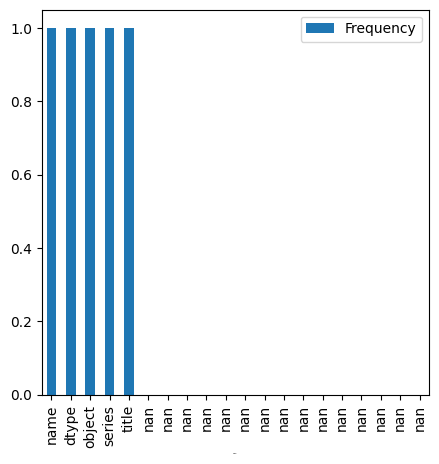
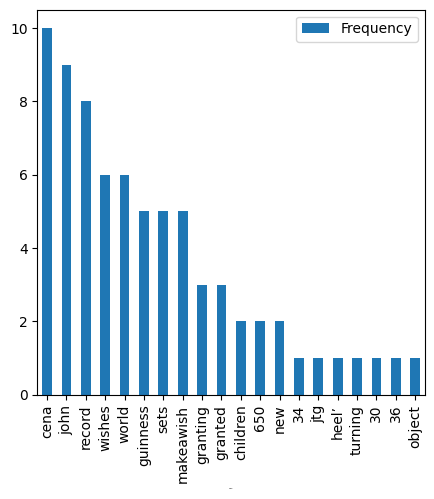
'barplot_corrected'

Changed region(s): [[0.03, 0.0, 0.9885, 0.9655]]

diff --git a/app.py b/app.py
@@ -17,6 +17,7 @@ df = pd.DataFrame()
 
 @app.route("/",methods=['GET','POST'])
 def homepage():
+    pd.set_option('display.max_colwidth', None)
     global results
     global inner_dic
     global titles
@@ -28,6 +29,7 @@ def homepage():
 
     headings = ('Title','Source','Pub_time')
     
+
     try:
         player_name = request.form['player']
     except:
@@ -51,7 +53,7 @@ def homepage():
             titles.append(df['Title'][df['Name']==name])
             wordcloud_filenames.append(word_cloud(name,titles))
             barplots_filenames.append(plot_generator(name,titles))
-    
+            print(titles)
     try:
         return render_template("results.html",name_list = q_generator(), table_headings = headings, player_names=df['Name'], data=df.drop(columns=['Name']),len_df = len(df), wordcloud_files = wordcloud_filenames, plot_files = barplots_filenames, player_name = player_name)
 

diff --git a/word_frequency.py b/word_frequency.py
@@ -14,9 +14,10 @@ def frequency_generator(titles):
     all_titles = re.sub('[%s]' % re.escape('@!"#$%&\'()+,-./:;<=>?@[\\]^_`{|}~'), '', all_titles)
     
     words_list = [word for word in all_titles.split() if not word in stopwords]
+    print(words_list)
     # gives set of unique words
     unique_words = set(words_list)
-    frequency_df = pd.DataFrame(columns=['Words','Frequency'],index=range(100))
+    frequency_df = pd.DataFrame(columns=['Words','Frequency'],index=range(500))
     ctr=0
     for word in unique_words :
         frequency_df.loc[ctr].Words = word

diff --git a/result_collector.py b/result_collector.py
@@ -1,4 +1,3 @@
-from give_me_q import q_generator
 from news_scrapper import scrapper
 
 def final_results(names):
